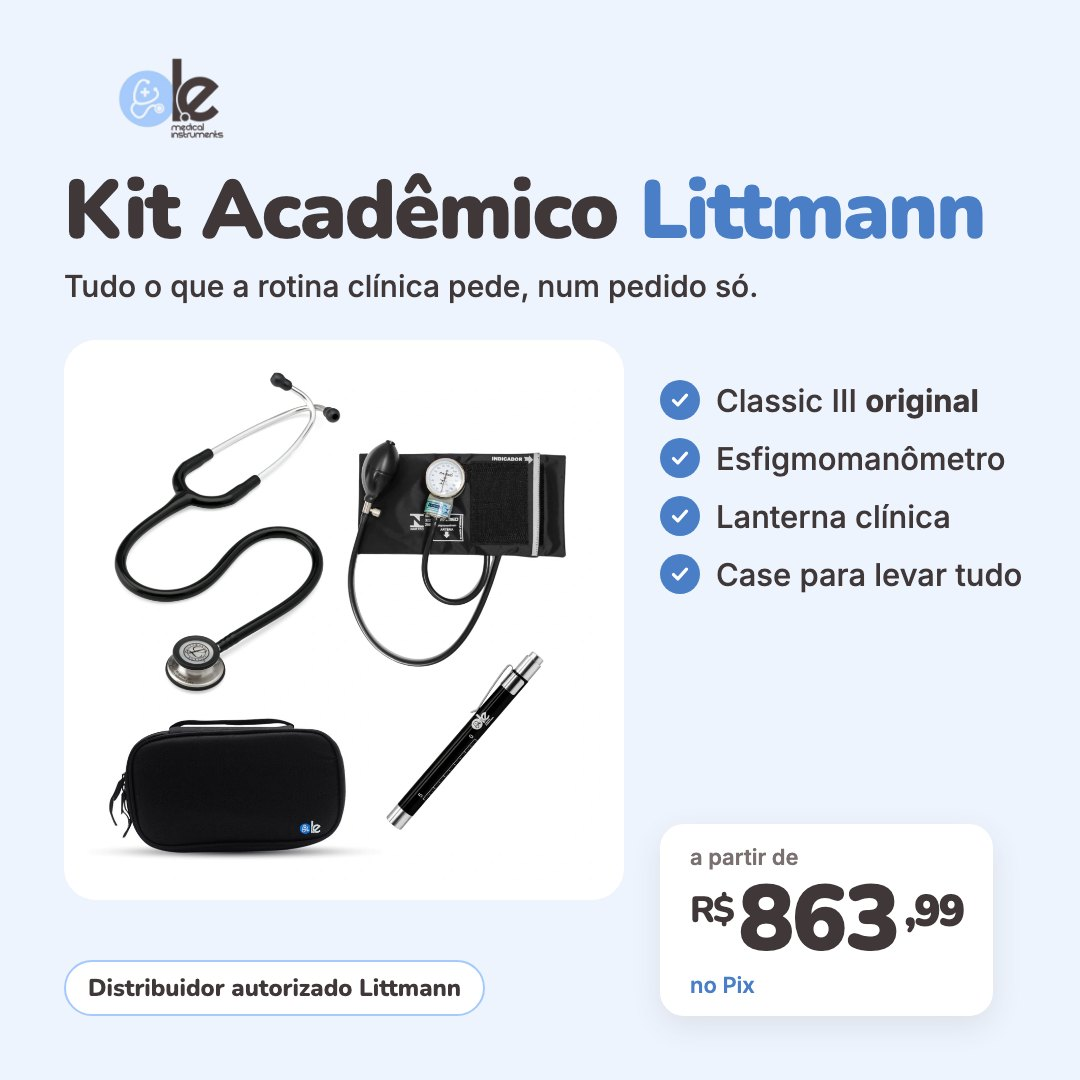
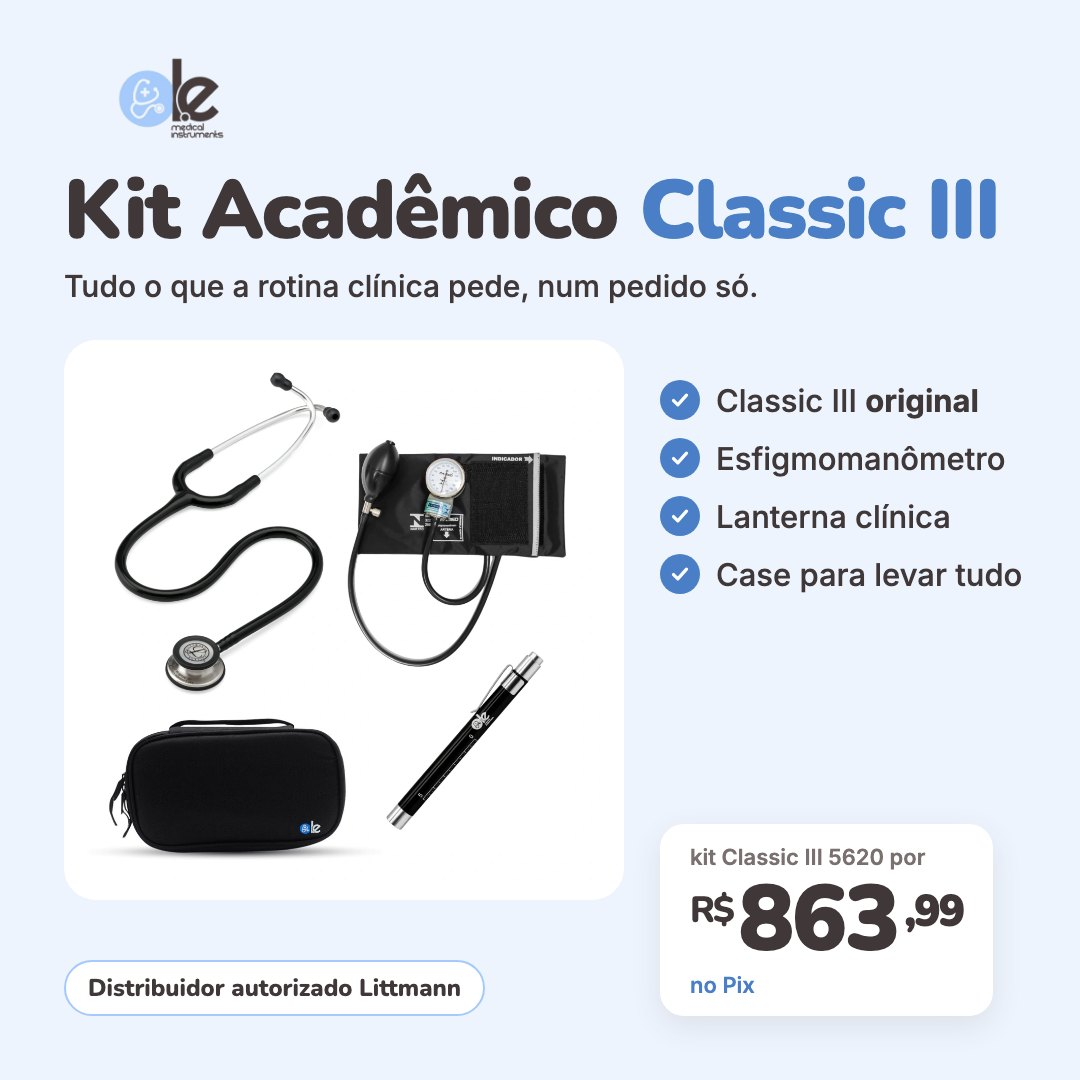
le-medical: 10 criativos com médicos out/26 + ajuste peça 05

Changed region(s): [[0.5806, 0.1528, 0.9472, 0.2444], [0.7333, 0.7639, 0.8556, 0.825], [0.6417, 0.7639, 0.7333, 0.825]]

diff --git a/le-medical/criativos-outubro-26/index.html b/le-medical/criativos-outubro-26/index.html
@@ -51,8 +51,8 @@ footer{margin-top:48px;padding-top:20px;border-top:1px solid var(--line);font-si
   <div class="topo"><span class="num">PEÇA 01</span><h2>Classic III com quem é referência</h2></div>
   <p class="ideia">Segue a estrutura do anúncio que mais vendeu no ano: o Classic III em destaque, as três garantias da loja (revendedor autorizado, 5 anos de garantia oficial, envio para todo o Brasil) e o preço do Pix bem grande.</p>
   <div class="artes">
-    <figure><img src="artes/01_CLASSIC_III_REFERENCIA_FEED.jpg" alt="Peça 1, feed: Classic III com quem é referência" loading="lazy"><figcaption>feed · 1:1</figcaption></figure>
-    <figure><img src="artes/01_CLASSIC_III_REFERENCIA_STORY.jpg" alt="Peça 1, story: Classic III com quem é referência" loading="lazy"><figcaption>story · 9:16</figcaption></figure>
+    <figure><img src="artes/01_CLASSIC_III_REFERENCIA_FEED.jpg?v=2" alt="Peça 1, feed: Classic III com quem é referência" loading="lazy"><figcaption>feed · 1:1</figcaption></figure>
+    <figure><img src="artes/01_CLASSIC_III_REFERENCIA_STORY.jpg?v=2" alt="Peça 1, story: Classic III com quem é referência" loading="lazy"><figcaption>story · 9:16</figcaption></figure>
   </div>
   <p class="leg"><span>Texto do anúncio</span>Littmann Classic III original, direto de quem é revendedor autorizado. 5 anos de garantia oficial e envio para todo o Brasil. A partir de R$ 671,99 no Pix.</p>
   <p class="dest">Leva para: <b>Classic III (categoria)</b> · arquivo <code>01_CLASSIC_III_REFERENCIA</code></p>
@@ -61,8 +61,8 @@ footer{margin-top:48px;padding-top:20px;border-top:1px solid var(--line);font-si
   <div class="topo"><span class="num">PEÇA 02</span><h2>Seu nome gravado no seu Littmann</h2></div>
   <p class="ideia">A gravação é hoje o item mais vendido da loja, e o vídeo de personalização foi um dos anúncios que mais venderam. Aqui ela vira peça estática, com uma foto real de gravação.</p>
   <div class="artes">
-    <figure><img src="artes/02_SEU_NOME_GRAVADO_FEED.jpg" alt="Peça 2, feed: Seu nome gravado no seu Littmann" loading="lazy"><figcaption>feed · 1:1</figcaption></figure>
-    <figure><img src="artes/02_SEU_NOME_GRAVADO_STORY.jpg" alt="Peça 2, story: Seu nome gravado no seu Littmann" loading="lazy"><figcaption>story · 9:16</figcaption></figure>
+    <figure><img src="artes/02_SEU_NOME_GRAVADO_FEED.jpg?v=2" alt="Peça 2, feed: Seu nome gravado no seu Littmann" loading="lazy"><figcaption>feed · 1:1</figcaption></figure>
+    <figure><img src="artes/02_SEU_NOME_GRAVADO_STORY.jpg?v=2" alt="Peça 2, story: Seu nome gravado no seu Littmann" loading="lazy"><figcaption>story · 9:16</figcaption></figure>
   </div>
   <p class="leg"><span>Texto do anúncio</span>Seu Littmann com o seu nome. Gravação segura, sem perder a garantia: é só preencher o nome depois da compra. Gravação por R$ 40.</p>
   <p class="dest">Leva para: <b>Personalização</b> · arquivo <code>02_SEU_NOME_GRAVADO</code></p>
@@ -71,8 +71,8 @@ footer{margin-top:48px;padding-top:20px;border-top:1px solid var(--line);font-si
   <div class="topo"><span class="num">PEÇA 03</span><h2>Dia do Médico — 18 de outubro</h2></div>
   <p class="ideia">As datas comemorativas (Dia do Consumidor, Dia da Mulher, Ano Novo) estão entre os anúncios com melhor retorno do ano. O Dia do Médico é a próxima data do calendário.</p>
   <div class="artes">
-    <figure><img src="artes/03_DIA_DO_MEDICO_FEED.jpg" alt="Peça 3, feed: Dia do Médico — 18 de outubro" loading="lazy"><figcaption>feed · 1:1</figcaption></figure>
-    <figure><img src="artes/03_DIA_DO_MEDICO_STORY.jpg" alt="Peça 3, story: Dia do Médico — 18 de outubro" loading="lazy"><figcaption>story · 9:16</figcaption></figure>
+    <figure><img src="artes/03_DIA_DO_MEDICO_FEED.jpg?v=2" alt="Peça 3, feed: Dia do Médico — 18 de outubro" loading="lazy"><figcaption>feed · 1:1</figcaption></figure>
+    <figure><img src="artes/03_DIA_DO_MEDICO_STORY.jpg?v=2" alt="Peça 3, story: Dia do Médico — 18 de outubro" loading="lazy"><figcaption>story · 9:16</figcaption></figure>
   </div>
   <p class="leg"><span>Texto do anúncio</span>18 de outubro, Dia do Médico. Para quem escuta com atenção todos os dias, o estetoscópio que acompanha a carreira inteira. Littmann Classic III a partir de R$ 671,99 no Pix.</p>
   <p class="dest">Leva para: <b>Classic III (categoria)</b> · arquivo <code>03_DIA_DO_MEDICO</code></p>
@@ -81,8 +81,8 @@ footer{margin-top:48px;padding-top:20px;border-top:1px solid var(--line);font-si
   <div class="topo"><span class="num">PEÇA 04</span><h2>Seu Littmann ainda está te esperando</h2></div>
   <p class="ideia">Para quem visitou o site e não finalizou. Versão nova do anúncio de carrinho, que foi um dos de melhor retorno do ano.</p>
   <div class="artes">
-    <figure><img src="artes/04_CARRINHO_TE_ESPERANDO_FEED.jpg" alt="Peça 4, feed: Seu Littmann ainda está te esperando" loading="lazy"><figcaption>feed · 1:1</figcaption></figure>
-    <figure><img src="artes/04_CARRINHO_TE_ESPERANDO_STORY.jpg" alt="Peça 4, story: Seu Littmann ainda está te esperando" loading="lazy"><figcaption>story · 9:16</figcaption></figure>
+    <figure><img src="artes/04_CARRINHO_TE_ESPERANDO_FEED.jpg?v=2" alt="Peça 4, feed: Seu Littmann ainda está te esperando" loading="lazy"><figcaption>feed · 1:1</figcaption></figure>
+    <figure><img src="artes/04_CARRINHO_TE_ESPERANDO_STORY.jpg?v=2" alt="Peça 4, story: Seu Littmann ainda está te esperando" loading="lazy"><figcaption>story · 9:16</figcaption></figure>
   </div>
   <p class="leg"><span>Texto do anúncio</span>Quase lá! O seu Littmann ainda está te esperando. Finalize o pedido e pague no Pix com 4% de desconto.</p>
   <p class="dest">Leva para: <b>Carrinho / Classic III</b> · arquivo <code>04_CARRINHO_TE_ESPERANDO</code></p>
@@ -91,18 +91,18 @@ footer{margin-top:48px;padding-top:20px;border-top:1px solid var(--line);font-si
   <div class="topo"><span class="num">PEÇA 05</span><h2>Kit Acadêmico Littmann</h2></div>
   <p class="ideia">O kit acadêmico foi o anúncio com mais vendas do ano. Aqui ele aparece com os itens listados um a um e o preço do Pix.</p>
   <div class="artes">
-    <figure><img src="artes/05_KIT_ACADEMICO_FEED.jpg" alt="Peça 5, feed: Kit Acadêmico Littmann" loading="lazy"><figcaption>feed · 1:1</figcaption></figure>
-    <figure><img src="artes/05_KIT_ACADEMICO_STORY.jpg" alt="Peça 5, story: Kit Acadêmico Littmann" loading="lazy"><figcaption>story · 9:16</figcaption></figure>
+    <figure><img src="artes/05_KIT_ACADEMICO_FEED.jpg?v=2" alt="Peça 5, feed: Kit Acadêmico Littmann" loading="lazy"><figcaption>feed · 1:1</figcaption></figure>
+    <figure><img src="artes/05_KIT_ACADEMICO_STORY.jpg?v=2" alt="Peça 5, story: Kit Acadêmico Littmann" loading="lazy"><figcaption>story · 9:16</figcaption></figure>
   </div>
-  <p class="leg"><span>Texto do anúncio</span>Kit Acadêmico Littmann: Classic III original, esfigmomanômetro, lanterna clínica e case para levar tudo. A partir de R$ 863,99 no Pix.</p>
+  <p class="leg"><span>Texto do anúncio</span>Kit Acadêmico Classic III: Littmann Classic III original, esfigmomanômetro, lanterna clínica e case para levar tudo. Kit Classic III 5620 por R$ 863,99 no Pix.</p>
   <p class="dest">Leva para: <b>Conjunto Acadêmico 5620</b> · arquivo <code>05_KIT_ACADEMICO</code></p>
 </section>
 <section class="opcao">
   <div class="topo"><span class="num">PEÇA 06</span><h2>Qual é a sua cor?</h2></div>
   <p class="ideia">O anúncio do Littmann azul foi o que mais recebeu cliques do ano. Esta peça mostra seis cores lado a lado para a pessoa escolher a sua.</p>
   <div class="artes">
-    <figure><img src="artes/06_QUAL_SUA_COR_FEED.jpg" alt="Peça 6, feed: Qual é a sua cor?" loading="lazy"><figcaption>feed · 1:1</figcaption></figure>
-    <figure><img src="artes/06_QUAL_SUA_COR_STORY.jpg" alt="Peça 6, story: Qual é a sua cor?" loading="lazy"><figcaption>story · 9:16</figcaption></figure>
+    <figure><img src="artes/06_QUAL_SUA_COR_FEED.jpg?v=2" alt="Peça 6, feed: Qual é a sua cor?" loading="lazy"><figcaption>feed · 1:1</figcaption></figure>
+    <figure><img src="artes/06_QUAL_SUA_COR_STORY.jpg?v=2" alt="Peça 6, story: Qual é a sua cor?" loading="lazy"><figcaption>story · 9:16</figcaption></figure>
   </div>
   <p class="leg"><span>Texto do anúncio</span>Qual é a sua cor? Littmann Classic III original em várias cores e acabamentos. A partir de R$ 671,99 no Pix.</p>
   <p class="dest">Leva para: <b>Classic III (categoria)</b> · arquivo <code>06_QUAL_SUA_COR</code></p>
@@ -111,8 +111,8 @@ footer{margin-top:48px;padding-top:20px;border-top:1px solid var(--line);font-si
   <div class="topo"><span class="num">PEÇA 07</span><h2>Original, conferido e com garantia</h2></div>
   <p class="ideia">Versão em foto do vídeo institucional, que teve o menor custo por venda da conta. Foto de produto real na espuma da embalagem, com a mensagem de confiança.</p>
   <div class="artes">
-    <figure><img src="artes/07_ORIGINAL_COM_GARANTIA_FEED.jpg" alt="Peça 7, feed: Original, conferido e com garantia" loading="lazy"><figcaption>feed · 1:1</figcaption></figure>
-    <figure><img src="artes/07_ORIGINAL_COM_GARANTIA_STORY.jpg" alt="Peça 7, story: Original, conferido e com garantia" loading="lazy"><figcaption>story · 9:16</figcaption></figure>
+    <figure><img src="artes/07_ORIGINAL_COM_GARANTIA_FEED.jpg?v=2" alt="Peça 7, feed: Original, conferido e com garantia" loading="lazy"><figcaption>feed · 1:1</figcaption></figure>
+    <figure><img src="artes/07_ORIGINAL_COM_GARANTIA_STORY.jpg?v=2" alt="Peça 7, story: Original, conferido e com garantia" loading="lazy"><figcaption>story · 9:16</figcaption></figure>
   </div>
   <p class="leg"><span>Texto do anúncio</span>Original, conferido e com garantia. Somos distribuidor autorizado Littmann, com 5 anos de garantia oficial e envio para todo o Brasil.</p>
   <p class="dest">Leva para: <b>Home / Classic III</b> · arquivo <code>07_ORIGINAL_COM_GARANTIA</code></p>
@@ -121,8 +121,8 @@ footer{margin-top:48px;padding-top:20px;border-top:1px solid var(--line);font-si
   <div class="topo"><span class="num">PEÇA 08</span><h2>Equipamentos para a rotina clínica</h2></div>
   <p class="ideia">Peça nova: os anúncios até hoje falaram quase só de Littmann. Esta mostra outros equipamentos da loja com preço bom (otoscópio, aparelho de pressão, oxímetro e termômetro).</p>
   <div class="artes">
-    <figure><img src="artes/08_EQUIPAMENTOS_ROTINA_FEED.jpg" alt="Peça 8, feed: Equipamentos para a rotina clínica" loading="lazy"><figcaption>feed · 1:1</figcaption></figure>
-    <figure><img src="artes/08_EQUIPAMENTOS_ROTINA_STORY.jpg" alt="Peça 8, story: Equipamentos para a rotina clínica" loading="lazy"><figcaption>story · 9:16</figcaption></figure>
+    <figure><img src="artes/08_EQUIPAMENTOS_ROTINA_FEED.jpg?v=2" alt="Peça 8, feed: Equipamentos para a rotina clínica" loading="lazy"><figcaption>feed · 1:1</figcaption></figure>
+    <figure><img src="artes/08_EQUIPAMENTOS_ROTINA_STORY.jpg?v=2" alt="Peça 8, story: Equipamentos para a rotina clínica" loading="lazy"><figcaption>story · 9:16</figcaption></figure>
   </div>
   <p class="leg"><span>Texto do anúncio</span>Equipamentos para a rotina clínica: otoscópio Missouri R$ 172,79, aparelho de pressão BIC R$ 182,39, oxímetro BIC R$ 134,39 e termômetro G-Tech R$ 19,19, no Pix.</p>
   <p class="dest">Leva para: <b>Equipamentos</b> · arquivo <code>08_EQUIPAMENTOS_ROTINA</code></p>
@@ -131,8 +131,8 @@ footer{margin-top:48px;padding-top:20px;border-top:1px solid var(--line);font-si
   <div class="topo"><span class="num">PEÇA 09</span><h2>Black Rainbow — feito para ser notado</h2></div>
   <p class="ideia">Foto em close do acabamento rainbow, no estilo escuro que funcionou bem nos anúncios de personalização e de Ano Novo.</p>
   <div class="artes">
-    <figure><img src="artes/09_BLACK_RAINBOW_FEED.jpg" alt="Peça 9, feed: Black Rainbow — feito para ser notado" loading="lazy"><figcaption>feed · 1:1</figcaption></figure>
-    <figure><img src="artes/09_BLACK_RAINBOW_STORY.jpg" alt="Peça 9, story: Black Rainbow — feito para ser notado" loading="lazy"><figcaption>story · 9:16</figcaption></figure>
+    <figure><img src="artes/09_BLACK_RAINBOW_FEED.jpg?v=2" alt="Peça 9, feed: Black Rainbow — feito para ser notado" loading="lazy"><figcaption>feed · 1:1</figcaption></figure>
+    <figure><img src="artes/09_BLACK_RAINBOW_STORY.jpg?v=2" alt="Peça 9, story: Black Rainbow — feito para ser notado" loading="lazy"><figcaption>story · 9:16</figcaption></figure>
   </div>
   <p class="leg"><span>Texto do anúncio</span>Classic III Black Rainbow: feito para ser notado. R$ 758,39 no Pix.</p>
   <p class="dest">Leva para: <b>Classic III 5870</b> · arquivo <code>09_BLACK_RAINBOW</code></p>
@@ -141,8 +141,8 @@ footer{margin-top:48px;padding-top:20px;border-top:1px solid var(--line);font-si
   <div class="topo"><span class="num">PEÇA 10</span><h2>O presente que vai junto para o plantão</h2></div>
   <p class="ideia">Junta a gravação com a temporada de formaturas de novembro e dezembro: o Littmann como presente, com o nome de quem se forma.</p>
   <div class="artes">
-    <figure><img src="artes/10_PRESENTE_FORMATURA_FEED.jpg" alt="Peça 10, feed: O presente que vai junto para o plantão" loading="lazy"><figcaption>feed · 1:1</figcaption></figure>
-    <figure><img src="artes/10_PRESENTE_FORMATURA_STORY.jpg" alt="Peça 10, story: O presente que vai junto para o plantão" loading="lazy"><figcaption>story · 9:16</figcaption></figure>
+    <figure><img src="artes/10_PRESENTE_FORMATURA_FEED.jpg?v=2" alt="Peça 10, feed: O presente que vai junto para o plantão" loading="lazy"><figcaption>feed · 1:1</figcaption></figure>
+    <figure><img src="artes/10_PRESENTE_FORMATURA_STORY.jpg?v=2" alt="Peça 10, story: O presente que vai junto para o plantão" loading="lazy"><figcaption>story · 9:16</figcaption></figure>
   </div>
   <p class="leg"><span>Texto do anúncio</span>Temporada de formaturas: o presente que vai junto para o plantão. Littmann original com o nome de quem se forma gravado. Classic III a partir de R$ 671,99 no Pix + gravação por R$ 40.</p>
   <p class="dest">Leva para: <b>Classic III + personalização</b> · arquivo <code>10_PRESENTE_FORMATURA</code></p>

diff --git a/le-medical/criativos-medicos-outubro-26/index.html b/le-medical/criativos-medicos-outubro-26/index.html
@@ -1,0 +1,76 @@
+<!doctype html>
+<html lang="pt-BR">
+<head>
+<meta charset="utf-8">
+<meta name="viewport" content="width=device-width, initial-scale=1">
+<meta name="robots" content="noindex, nofollow">
+<meta name="description" content="Dez peças de anúncio da LE Medical com médicos, em formatos novos, para aprovação.">
+<title>LE Medical · Médicos Outubro</title>
+<link rel="preconnect" href="https://fonts.googleapis.com"><link rel="preconnect" href="https://fonts.gstatic.com" crossorigin>
+<link rel="stylesheet" href="https://fonts.googleapis.com/css2?family=Nunito:wght@700;800;900&family=Inter:wght@400;500;600&display=swap">
+<style>
+:root{--ground:#EEF4FD;--surface:#fff;--ink:#403838;--ink-2:#5f5656;--ink-3:#8a8080;--line:#d9e4f4;--az:#4A7FC7;--azs:#A4C9FA;--soft:#E3EDFB}
+@media (prefers-color-scheme: dark){:root:not([data-theme="light"]){--ground:#151719;--surface:#1e2124;--ink:#EEF0F3;--ink-2:#c3c8cf;--ink-3:#8d949c;--line:#2e3338;--az:#8DB6EE;--azs:#A4C9FA;--soft:#1f2a38}}
+:root[data-theme="dark"]{--ground:#151719;--surface:#1e2124;--ink:#EEF0F3;--ink-2:#c3c8cf;--ink-3:#8d949c;--line:#2e3338;--az:#8DB6EE;--azs:#A4C9FA;--soft:#1f2a38}
+*{box-sizing:border-box}
+body{margin:0;background:var(--ground);color:var(--ink);font-family:Inter,-apple-system,sans-serif;line-height:1.55;-webkit-font-smoothing:antialiased}
+.wrap{max-width:1040px;margin:0 auto;padding:40px 16px 72px}
+header{border-bottom:1px solid var(--line);padding-bottom:28px;margin-bottom:28px}
+.eyebrow{font-size:12px;letter-spacing:.14em;text-transform:uppercase;color:var(--az);font-weight:600;margin:0 0 10px}
+h1{font-family:Nunito,sans-serif;font-weight:900;font-size:clamp(28px,5vw,42px);line-height:1.15;margin:0 0 12px}
+.sub{color:var(--ink-2);font-size:16px;margin:0;max-width:66ch}
+.nota{border-left:3px solid var(--az);background:var(--soft);border-radius:0 12px 12px 0;padding:16px 18px;margin:0 0 28px}
+.nota p{margin:0 0 6px}.nota p:last-child{margin:0}
+.opcao{background:var(--surface);border:1px solid var(--line);border-radius:16px;padding:22px;margin-bottom:22px}
+.topo{display:flex;align-items:baseline;gap:12px;flex-wrap:wrap;margin-bottom:6px}
+.num{font-size:12px;letter-spacing:.12em;color:var(--az);font-weight:600}
+h2{font-family:Nunito,sans-serif;font-size:24px;font-weight:800;margin:0;line-height:1.25}
+.ideia{color:var(--ink-2);margin:0 0 16px;max-width:72ch}
+.artes{display:grid;grid-template-columns:1.6fr 1fr;gap:14px;align-items:start}
+figure{margin:0}figure img{width:100%;height:auto;display:block;border-radius:10px;border:1px solid var(--line)}
+figcaption{font-size:11px;letter-spacing:.08em;text-transform:uppercase;color:var(--ink-3);margin-top:6px}
+.leg{margin:16px 0 6px;background:var(--soft);border-radius:10px;padding:12px 14px}
+.leg span{display:block;font-size:11px;letter-spacing:.08em;text-transform:uppercase;color:var(--ink-3);margin-bottom:4px}
+.dest{margin:0;font-size:13px;color:var(--ink-3)} code{font-size:12px}
+footer{margin-top:48px;padding-top:20px;border-top:1px solid var(--line);font-size:12px;color:var(--ink-3)}
+@media (max-width:640px){.artes{grid-template-columns:1fr}.opcao{padding:16px}}
+</style>
+</head>
+<body><div class="wrap">
+<header><p class="eyebrow">LE Medical · Criativos com médicos · Outubro 2026</p>
+<h1>10 peças em formatos novos</h1>
+<p class="sub">Uma linha diferente de tudo o que a conta já rodou: cada peça tem um formato próprio (revista, cinema, WhatsApp, player de música, carta, documentário, cartaz, formatura, crachá e checklist) e traz médicos e estudantes no centro. Todas vêm na versão do feed (quadrada) e na do story.</p></header>
+<div class="nota"><p><b>Fotos:</b> são de banco de imagens com uso comercial liberado (Unsplash). Se vocês tiverem fotos de clientes ou da equipe usando os produtos, a gente troca, e fica ainda melhor.</p>
+<p><b>Preços:</b> são os do Pix, conferidos no site em 14/10/2026.</p>
+<p><b>Dia do Médico (peça 05):</b> a data é 18/10 (domingo). Para rodar a tempo, precisamos da aprovação dela até quinta, 15/10.</p></div>
+<section class="opcao"><div class="topo"><span class="num">PEÇA 01</span><h2>Capa de revista: “Escuta”</h2></div><p class="ideia">Uma capa de revista médica de outubro, com o Classic III como matéria de capa.</p>
+<div class="artes"><figure><img src="artes/MED_01_CAPA_REVISTA_FEED.jpg" alt="Peça 1, feed" loading="lazy"><figcaption>feed · 1:1</figcaption></figure><figure><img src="artes/MED_01_CAPA_REVISTA_STORY.jpg" alt="Peça 1, story" loading="lazy"><figcaption>story · 9:16</figcaption></figure></div>
+<p class="leg"><span>Texto do anúncio</span>O diagnóstico começa antes do exame. Começa no ouvido. Littmann Classic III original na LE Medical.</p><p class="dest">arquivo <code>MED_01_CAPA_REVISTA</code></p></section>
+<section class="opcao"><div class="topo"><span class="num">PEÇA 02</span><h2>Pôster de cinema: “Plantão”</h2></div><p class="ideia">Pôster de filme, escuro e cinematográfico. Estrelando: você e o seu Littmann.</p>
+<div class="artes"><figure><img src="artes/MED_02_POSTER_PLANTAO_FEED.jpg" alt="Peça 2, feed" loading="lazy"><figcaption>feed · 1:1</figcaption></figure><figure><img src="artes/MED_02_POSTER_PLANTAO_STORY.jpg" alt="Peça 2, story" loading="lazy"><figcaption>story · 9:16</figcaption></figure></div>
+<p class="leg"><span>Texto do anúncio</span>36 horas. Nenhum ruído pode passar. Estrelando você e o seu Littmann Classic III. Em cartaz no seu pescoço.</p><p class="dest">arquivo <code>MED_02_POSTER_PLANTAO</code></p></section>
+<section class="opcao"><div class="topo"><span class="num">PEÇA 03</span><h2>Conversa de WhatsApp</h2></div><p class="ideia">Uma conversa entre colegas de residência: o Littmann gravado chegou. A mensagem sobre a LE Medical vem de dentro da conversa.</p>
+<div class="artes"><figure><img src="artes/MED_03_CONVERSA_WHATSAPP_FEED.jpg" alt="Peça 3, feed" loading="lazy"><figcaption>feed · 1:1</figcaption></figure><figure><img src="artes/MED_03_CONVERSA_WHATSAPP_STORY.jpg" alt="Peça 3, story" loading="lazy"><figcaption>story · 9:16</figcaption></figure></div>
+<p class="leg"><span>Texto do anúncio</span>Quando o Littmann chega com o seu nome gravado, a primeira coisa que você faz é mandar foto pra todo mundo. Gravação por R$ 40 na LE Medical.</p><p class="dest">arquivo <code>MED_03_CONVERSA_WHATSAPP</code></p></section>
+<section class="opcao"><div class="topo"><span class="num">PEÇA 04</span><h2>Player de música</h2></div><p class="ideia">Tela de player tocando “O primeiro batimento que você vai escutar”, com o traçado de um eletrocardiograma no lugar da onda sonora.</p>
+<div class="artes"><figure><img src="artes/MED_04_PLAYER_BATIMENTO_FEED.jpg" alt="Peça 4, feed" loading="lazy"><figcaption>feed · 1:1</figcaption></figure><figure><img src="artes/MED_04_PLAYER_BATIMENTO_STORY.jpg" alt="Peça 4, story" loading="lazy"><figcaption>story · 9:16</figcaption></figure></div>
+<p class="leg"><span>Texto do anúncio</span>Tocando agora: o primeiro batimento que você vai escutar. Littmann Classic III a partir de R$ 671,99 no Pix.</p><p class="dest">arquivo <code>MED_04_PLAYER_BATIMENTO</code></p></section>
+<section class="opcao"><div class="topo"><span class="num">PEÇA 05</span><h2>Carta à mão: Dia do Médico</h2></div><p class="ideia">Uma carta escrita à mão em papel pautado para o Dia do Médico (18/10), com uma foto presa ao lado.</p>
+<div class="artes"><figure><img src="artes/MED_05_CARTA_DIA_DO_MEDICO_FEED.jpg" alt="Peça 5, feed" loading="lazy"><figcaption>feed · 1:1</figcaption></figure><figure><img src="artes/MED_05_CARTA_DIA_DO_MEDICO_STORY.jpg" alt="Peça 5, story" loading="lazy"><figcaption>story · 9:16</figcaption></figure></div>
+<p class="leg"><span>Texto do anúncio</span>Querida doutora, querido doutor: obrigado por escutar com tanta atenção. Feliz Dia do Médico, da LE Medical.</p><p class="dest">arquivo <code>MED_05_CARTA_DIA_DO_MEDICO</code></p></section>
+<section class="opcao"><div class="topo"><span class="num">PEÇA 06</span><h2>Documentário em preto e branco</h2></div><p class="ideia">Foto antiga de consulta em casa e a história do estetoscópio, inventado em 1816. Tom de documentário.</p>
+<div class="artes"><figure><img src="artes/MED_06_DOCUMENTARIO_1816_FEED.jpg" alt="Peça 6, feed" loading="lazy"><figcaption>feed · 1:1</figcaption></figure><figure><img src="artes/MED_06_DOCUMENTARIO_1816_STORY.jpg" alt="Peça 6, story" loading="lazy"><figcaption>story · 9:16</figcaption></figure></div>
+<p class="leg"><span>Texto do anúncio</span>Há mais de 200 anos, todo diagnóstico começa pelo ouvido. A tecnologia mudou, o gesto não. Littmann Classic III original, com 5 anos de garantia.</p><p class="dest">arquivo <code>MED_06_DOCUMENTARIO_1816</code></p></section>
+<section class="opcao"><div class="topo"><span class="num">PEÇA 07</span><h2>Cartaz tipográfico vermelho</h2></div><p class="ideia">Letras gigantes sobre fundo vermelho: “O primeiro a gente nunca esquece.”</p>
+<div class="artes"><figure><img src="artes/MED_07_CARTAZ_PRIMEIRO_LITTMANN_FEED.jpg" alt="Peça 7, feed" loading="lazy"><figcaption>feed · 1:1</figcaption></figure><figure><img src="artes/MED_07_CARTAZ_PRIMEIRO_LITTMANN_STORY.jpg" alt="Peça 7, story" loading="lazy"><figcaption>story · 9:16</figcaption></figure></div>
+<p class="leg"><span>Texto do anúncio</span>O primeiro Littmann a gente nunca esquece. Original, com garantia oficial de 5 anos. A partir de R$ 671,99 no Pix.</p><p class="dest">arquivo <code>MED_07_CARTAZ_PRIMEIRO_LITTMANN</code></p></section>
+<section class="opcao"><div class="topo"><span class="num">PEÇA 08</span><h2>“Formou.” (formatura)</h2></div><p class="ideia">Recém-formada jogando confete, com uma palavra só no topo.</p>
+<div class="artes"><figure><img src="artes/MED_08_FORMOU_FEED.jpg" alt="Peça 8, feed" loading="lazy"><figcaption>feed · 1:1</figcaption></figure><figure><img src="artes/MED_08_FORMOU_STORY.jpg" alt="Peça 8, story" loading="lazy"><figcaption>story · 9:16</figcaption></figure></div>
+<p class="leg"><span>Texto do anúncio</span>Formou. O jaleco você já tem, falta o que vai no pescoço. Littmann Classic III com o seu nome gravado.</p><p class="dest">arquivo <code>MED_08_FORMOU</code></p></section>
+<section class="opcao"><div class="topo"><span class="num">PEÇA 09</span><h2>Crachá “Dr. Você”</h2></div><p class="ideia">Um crachá de plantão com o nome “Dr. Você” e o equipamento já anotado.</p>
+<div class="artes"><figure><img src="artes/MED_09_CRACHA_DR_VOCE_FEED.jpg" alt="Peça 9, feed" loading="lazy"><figcaption>feed · 1:1</figcaption></figure><figure><img src="artes/MED_09_CRACHA_DR_VOCE_STORY.jpg" alt="Peça 9, story" loading="lazy"><figcaption>story · 9:16</figcaption></figure></div>
+<p class="leg"><span>Texto do anúncio</span>Crachá pronto, plantão marcado. Só falta o equipamento certo: Classic III original, a partir de R$ 671,99 no Pix.</p><p class="dest">arquivo <code>MED_09_CRACHA_DR_VOCE</code></p></section>
+<section class="opcao"><div class="topo"><span class="num">PEÇA 10</span><h2>Checklist do primeiro plantão</h2></div><p class="ideia">Lista escrita à mão em papel com fundo amarelo: jaleco, crachá, caneta e café riscados, e o Littmann ainda em aberto.</p>
+<div class="artes"><figure><img src="artes/MED_10_CHECKLIST_1O_PLANTAO_FEED.jpg" alt="Peça 10, feed" loading="lazy"><figcaption>feed · 1:1</figcaption></figure><figure><img src="artes/MED_10_CHECKLIST_1O_PLANTAO_STORY.jpg" alt="Peça 10, story" loading="lazy"><figcaption>story · 9:16</figcaption></figure></div>
+<p class="leg"><span>Texto do anúncio</span>Jaleco ✔ crachá ✔ caneta ✔ café ✔ Littmann…? Falta um. Classic III a partir de R$ 671,99 no Pix.</p><p class="dest">arquivo <code>MED_10_CHECKLIST_1O_PLANTAO</code></p></section>
+<footer>GGD — Gio Growth Digital · peças geradas em 14/10/2026</footer></div></body></html>
